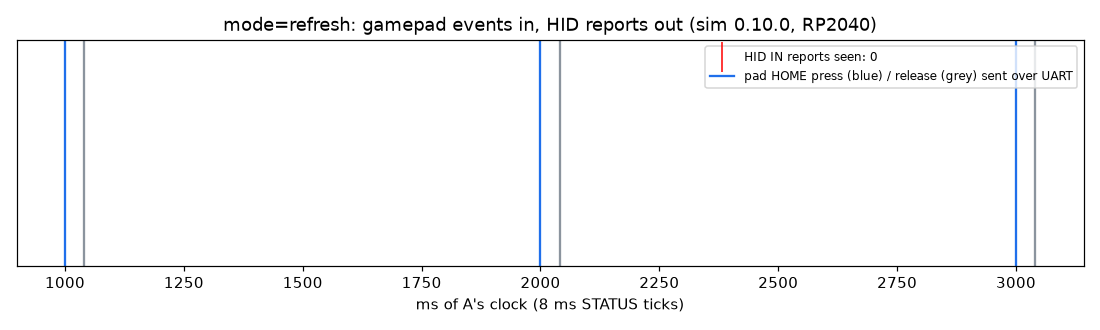
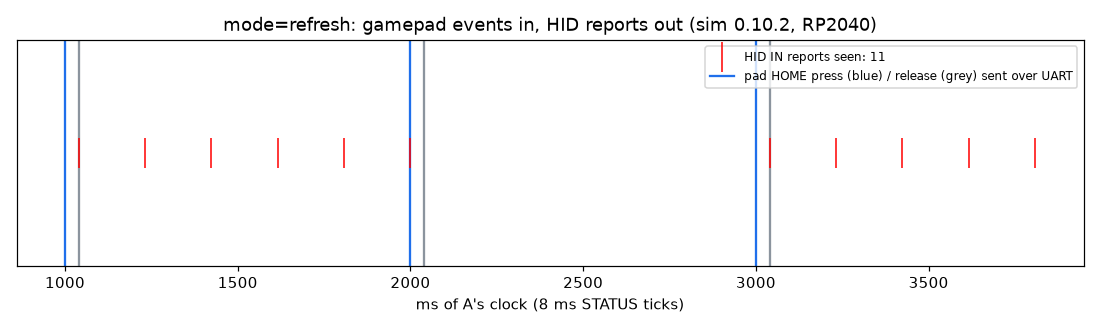
Re-run the RP2040 gamepad demo on sim 0.10.2: 11 HID reports (was 0)
The simulator forwards --uart-tcp bytes to the RP2040 UART again. Updates the
README row and note, the console timeline and the pad-vs-reports chart from
the new run.

diff --git a/sim/padchart.py b/sim/padchart.py
@@ -11,5 +11,5 @@ for t, k in presses: ax.axvline(t, color="#1f6feb" if k == "press" else "#8b949e
 ax.plot(reports, [1] * len(reports), "r|", ms=20, label=f"HID IN reports seen: {len(reports)}")
 ax.plot([], [], color="#1f6feb", label="pad HOME press (blue) / release (grey) sent over UART")
 ax.set_yticks([]); ax.set_xlabel("ms of A's clock (8 ms STATUS ticks)"); ax.legend(loc="upper right", fontsize=8)
-ax.set_title(f"mode={mode}: gamepad events in, HID reports out (sim 0.10.0, RP2040)")
+ax.set_title(f"mode={mode}: gamepad events in, HID reports out (sim 0.10.2, RP2040)")
 fig.tight_layout(); fig.savefig(sys.argv[2], dpi=110)

diff --git a/README.md b/README.md
@@ -1,6 +1,6 @@
 ## Simulation showcase (Simantic fork)
 
-This fork runs unmodified Joypad OS firmware images on [Simantic](https://simantic.dev)'s `sim` (release 0.10.0, 2026-11-13), with scripted Python peers standing in for the host, the gamepad and the partner board. Licence of this repository: **Apache-2.0** (see `LICENSE`); the images in `sim/elf/` are builds of this code base and carry the same licence. Everything is in `sim/`: `run.sh`, `run_nrf.sh`, `peer.py`, `nrf_enum.py`, plotting scripts, `out/` (captured logs) and `screenshots/`.
+This fork runs unmodified Joypad OS firmware images on [Simantic](https://simantic.dev)'s `sim` (release 0.10.0 for most rows; the RP2040 gamepad row re-measured on 0.10.2), with scripted Python peers standing in for the host, the gamepad and the partner board. Licence of this repository: **Apache-2.0** (see `LICENSE`); the images in `sim/elf/` are builds of this code base and carry the same licence. Everything is in `sim/`: `run.sh`, `run_nrf.sh`, `peer.py`, `nrf_enum.py`, plotting scripts, `out/` (captured logs) and `screenshots/`.
 
 ```mermaid
 flowchart LR
@@ -14,7 +14,7 @@ flowchart LR
 | --- | --- | --- | --- |
 | RP2040 remapper A: boot and console | `sim/run.sh refresh` | `a_ps5default_2145ffa8.elf` (PS5 default, RP2040) | boots; 25 console lines by 0.10 s; `[button] Event: HOLD` at 1.603 s; screenshot 01 |
 | RP2040: USB enumeration | same | same | device 2b81:0101 configured, HID IN endpoint 0x81 |
-| RP2040: gamepad HOME presses through the adapter to the console | `sim/run.sh change`, `sim/run.sh refresh` | same | **not working on 0.10.0** (also 0 reports on 0.8.12, 0.9.0, 0.9.2): 3 presses sent over UART, A's STATUS ticks received, 0 HID reports reach the console. Cause: simulator model bug, not firmware. Bytes sent with `--uart-tcp`/`--uart-pty` never reach the RP2040 PL011 (a counter in `Pl011::receive_byte` saw 0 calls): the injection path finds the UART through `uart_rx()`, and the RP2040 clock wrapper `ClockGated` forwards `host_rx()` but not `uart_rx()`, so the bytes are dropped. Not fixed in the released sim |
+| RP2040: gamepad HOME presses through the adapter to the console | `sim/run.sh change`, `sim/run.sh refresh` | same | **works on sim 0.10.2 (MEASURED 2026-11-17)**: 3 HOME presses sent over UART, 11 HID reports reach the console and 12 sign requests; the console sees HOME DOWN/UP at 1040/1232 ms and 3040/3232 ms. On 0.10.0 and earlier (also 0.8.12, 0.9.0, 0.9.2) the same ELF gave 0 reports: a simulator bug, now fixed (the RP2040 clock wrapper `ClockGated` forwarded `host_rx()` but not `uart_rx()`, so `--uart-tcp`/`--uart-pty` bytes never reached the PL011) |
 | nRF52840 usb2usb DK image: boot | `sim/run_nrf.sh` | `usb2usb_nrf52840dk.elf` | boots to `Entering main loop` at 0.75 s virtual, 1.9 s wall; the sim flags the model `incomplete` and does not list it in `sim models`; screenshot 02 |
 | nRF52840: USBD descriptors | same | same | device descriptor read (VID 2e8a, PID 10c6); config header read after SET_ADDRESS (wTotalLength 0x9d, 5 interfaces). Bus reset is not modelled (`'usbd' does not model a bus reset`); before SET_ADDRESS a config-descriptor request returns the device descriptor again. Enumeration to Configured: `unverified` on 0.10.0 |
 | nRF52840: gamepad through the adapter | n/a | n/a | not run: the MAX3421E SPI face has no peer on 0.10.0 (`[max3421] ERROR: chip not detected`), and the UART inject path (`uart_host`) is not in this repository's `main` |
@@ -23,7 +23,7 @@ flowchart LR
 ![nRF52840 console](sim/screenshots/02-console-timeline-nrf52840.png)
 ![pad vs HID reports](sim/screenshots/03-pad-vs-hid-reports-rp2040.png)
 
-**Corrected (2026-11-16).** The 0-report result in the chart is the real result on the released sim. An earlier version of this text named the PL011 RTS/CTS fix as the likely cause and cited a "Player 1 assigned" line from an older dev build. Both are withdrawn. The RTS/CTS fix is in the 0.10.0 build and works (CR=0xC301, RTSEN set), and a build that skipped the RTSEN hold still gave 0 reports. `Player 1` in A's STATUS frames is hardcoded in `usb2usb_remapper_v7_a/app.c` (`st.player_number = 1`, flags = CONNECTED), so it is not evidence of a player assignment. In a scratch pyrite worktree, a 3-line `uart_rx` forward in `ClockGated` gave 11 HID reports and 12 sign requests on the same ELF and scenario; this is a scratch build, not shipped. That older dev builds delivered the bytes is `unverified`.
+**Update (2026-11-17).** Re-run on sim 0.10.2 with the simulator fix: 11 HID reports and 12 sign requests for the same three HOME presses (the chart above and the table row are from that run). The earlier 0-report result on 0.10.0 and older was a simulator bug, not firmware, and not the PL011 RTS/CTS fix (that fix is in 0.10.0 and works). `Player 1` in A's STATUS frames is hardcoded in `usb2usb_remapper_v7_a/app.c` (`st.player_number = 1`, flags = CONNECTED), so it is not evidence of a player assignment. That older dev builds delivered the bytes is `unverified`.
 
 Provenance and simplifications:
 
